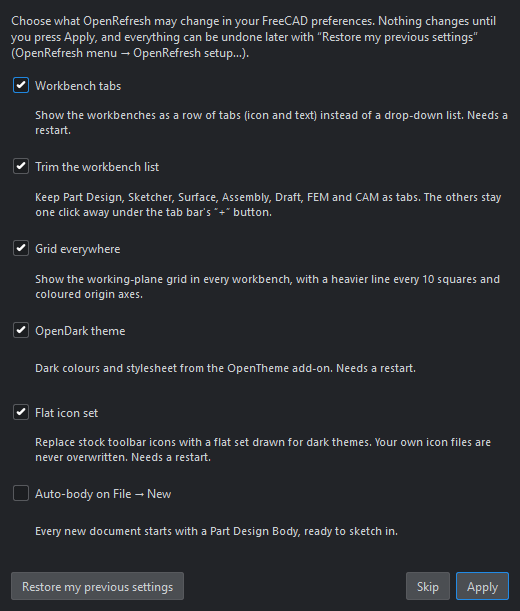
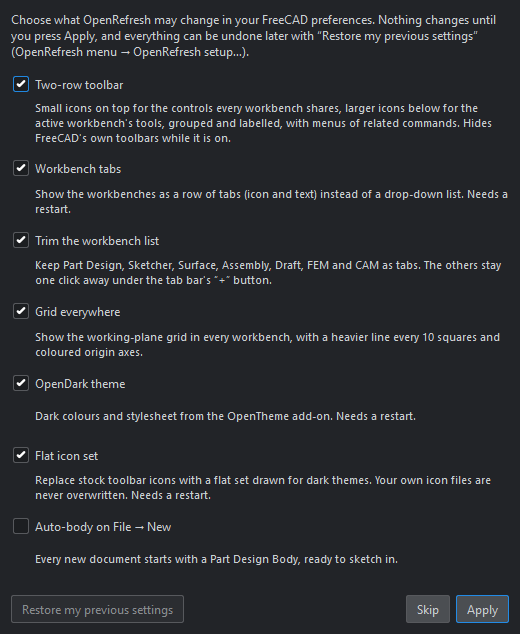
Make the two-row toolbar opt-in; recommend Nxt instead of requiring it
- The two-row toolbar is off until chosen in the setup wizard, where it
  is now the first option. Applying it takes effect at once; restoring
  turns it off and shows FreeCAD's own toolbars again at once.
- Nxt is an optional (recommended) dependency; OpenTheme stays required.
- Self-test reads the add-on's own preference and, with the toolbar off,
  checks that OpenRefresh hid nothing (FreeCAD's Sketcher hides some
  toolbars itself in edit mode, so it tests OpenRefresh's own record).
- README, CHANGELOG and the setup wizard screenshot updated to match.

diff --git a/tests/gui_selftest.py b/tests/gui_selftest.py
@@ -172,18 +172,43 @@ def toolbar_rows():
 
 
 def two_row_layout_expected():
+    """The add-on's own answer, so the default lives in one place (prefs)."""
     try:
-        return bool(App.ParamGet(
-            "User parameter:BaseApp/Preferences/Mod/OpenRefresh").GetBool("TwoRowLayout", True))
+        from freecad.openrefresh import prefs as or_prefs
+        return bool(or_prefs.two_row_layout())
     except Exception:
-        return True
+        return False
+
+
+def check_untouched(tag):
+    """With the two-row toolbar off, OpenRefresh must leave FreeCAD's toolbars
+    alone (FreeCAD's addon index forbids changing its interface unasked).
+
+    Tested against OpenRefresh's own record of what it hid, not against
+    "nothing is hidden": FreeCAD hides toolbars by itself, e.g. the Sketcher
+    force-hides Structure and Sketcher while a sketch is open
+    (Sketcher Workbench::enterEditMode)."""
+    mw = Gui.getMainWindow()
+    band = mw.findChild(QtWidgets.QToolBar, BAND_NAME)
+    band_shown = band is not None and band.isVisible()
+    try:
+        from freecad.openrefresh import band as or_band
+        hid = list(or_band.harvested())
+    except Exception as exc:
+        hid = ["<could not ask the band: {!r}>".format(exc)]
+    note("hidden_by_freecad_" + tag, sorted(
+        tb.objectName() for tb in mw.findChildren(QtWidgets.QToolBar)
+        if tb.parent() is mw and not tb.isVisible() and tb.objectName()))
+    check("toolbars_untouched_" + tag, not band_shown and not hid,
+          "band shown" if band_shown else ("OpenRefresh hid: {}".format(hid) if hid else "ok"))
 
 
 def check_rows(tag):
     rows = toolbar_rows()
     note("toolbar_rows_" + tag, rows)
     if not two_row_layout_expected():
-        check("two_rows_" + tag, True, "TwoRowLayout is off", skipped=True)
+        check("two_rows_" + tag, True, "two-row toolbar is off", skipped=True)
+        check_untouched(tag)
         return
     ok = len(rows) == 2 and BAND_NAME in rows[1]["bars"]
     check("two_rows_" + tag, ok,
@@ -332,6 +357,12 @@ def check_sketch_edit():
         allowed = set(or_layout.TOP_ROW)
     except Exception:
         allowed = set()
+    if not two_row_layout_expected():
+        for name in ("top_row_clean_in_sketch_edit", "arc_variants_in_band"):
+            check(name, True, "two-row toolbar is off", skipped=True)
+        check_untouched("sketch_edit")
+        note("shot_sketch_edit", grab("03b_sketch_edit"))
+        return
     rows = toolbar_rows()
     note("toolbar_rows_sketch_edit", rows)
     top = rows[0]["bars"] if rows else []

diff --git a/freecad/openrefresh/setup_wizard.py b/freecad/openrefresh/setup_wizard.py
@@ -111,6 +111,11 @@ GRID_VALUES = (
 #: id, checkbox label, one-line explanation, default.
 #: ``apply()`` takes a dict keyed by these ids.
 OPTIONS = (
+    ("toolbar", "Two-row toolbar",
+     "Small icons on top for the controls every workbench shares, larger "
+     "icons below for the active workbench's tools, grouped and labelled, "
+     "with menus of related commands. Hides FreeCAD's own toolbars while "
+     "it is on.", True),
     ("tabs", "Workbench tabs",
      "Show the workbenches as a row of tabs (icon and text) instead of a "
      "drop-down list. Needs a restart.", True),
@@ -374,10 +379,23 @@ def restore_backup():
         prefs.group().RemBool(prefs.SETUP_DONE)
     except Exception:
         pass
+    # The journal just switched the two-row toolbar off again (if the wizard
+    # had turned it on): give FreeCAD its own toolbars back straight away.
+    _relayout_soon()
     _save_parameters()
     log("setup: restored {} preference(s), removed {} icon(s){}".format(
         len(records) - len(failed), removed, "" if ok else " (with errors)"))
     return ok
+
+
+def _relayout_soon():
+    """Re-apply (or undo) the toolbar layout once the dialog code returns."""
+    try:
+        from PySide import QtCore
+        from . import commands
+        QtCore.QTimer.singleShot(0, commands.relayout)
+    except Exception as exc:
+        log("setup: toolbar layout not refreshed ({})".format(exc))
 
 
 def _save_parameters():
@@ -507,6 +525,15 @@ def apply(choices):
     _safety_copy()
 
     restart = " (after a restart)"
+    if choices.get("toolbar"):
+        try:
+            count = _journal_and_set([
+                (prefs.GROUP, prefs.TWO_ROW_LAYOUT, "bool", True),
+                (prefs.GROUP, prefs.BAND_CAPTIONS, "bool", True)])
+            lines.append("Two-row toolbar: {}".format("on" if count else "already on"))
+            _relayout_soon()
+        except Exception as exc:
+            lines.append("Two-row toolbar: FAILED ({})".format(exc))
     if choices.get("tabs"):
         try:
             _report(lines, "Workbench tabs", _apply_values(TABS_VALUES), restart)

diff --git a/freecad/openrefresh/prefs.py b/freecad/openrefresh/prefs.py
@@ -21,7 +21,9 @@ DEFAULTS = {
     AUTO_BODY: False,
     SHOW_GRID: True,
     BAND_CAPTIONS: True,
-    TWO_ROW_LAYOUT: True,
+    # Off until the user picks it in the setup wizard: an add-on in FreeCAD's
+    # index must not change FreeCAD's interface without being asked.
+    TWO_ROW_LAYOUT: False,
     FLAT_ICONS_INSTALLED: False,
 }
 

diff --git a/README.md b/README.md
@@ -1,7 +1,7 @@
 <h1><img src="docs/media/logo.svg" alt="OpenRefresh" width="440"></h1>
 
 > [!WARNING]
-> **Built on an experimental add-on.** OpenRefresh depends on Nxt, which is
+> **Built on an experimental add-on.** OpenRefresh is built to work with Nxt, which is
 > still in early development. An Nxt update can break parts of OpenRefresh or
 > change how they behave until OpenRefresh is updated to match. Please report
 > anything that stops working on the
@@ -39,7 +39,8 @@ every workbench. Ctrl+Alt+G brings it back in the current view.
 
 ### Two toolbar rows
 
-The top row uses small icons and holds the things you need in every
+The two-row toolbar is the first option in the setup wizard, and FreeCAD's
+toolbars stay as they are until you pick it. Once it is on, the top row uses small icons and holds the things you need in every
 workbench: file and edit commands, cut, copy and paste, the OpenRefresh
 buttons, and the workbench tabs. The bottom row uses larger icons for the
 active workbench's own tools, grouped under captions such as Create, Modify
@@ -75,9 +76,9 @@ until you pick another.
 
 ### Setup wizard
 
-The first time FreeCAD starts with OpenRefresh, a setup window offers six
-changes to your preferences, each with its own checkbox: workbench tabs, a
-shorter workbench list, the grid in every workbench, the OpenDark theme, the
+The first time FreeCAD starts with OpenRefresh, a setup window offers seven
+changes to your preferences, each with its own checkbox: the two-row toolbar,
+workbench tabs, a shorter workbench list, the grid in every workbench, the OpenDark theme, the
 flat icon set, and a body in every document made with **File → New**. Only the
 ones you tick are applied.
 
@@ -106,8 +107,9 @@ tab.
 ## Necessary software
 
 - FreeCAD 1.1.0 or a later version.
-- The OpenTheme add-on and the Nxt add-on. The Addon Manager installs them
-  with OpenRefresh.
+- The OpenTheme add-on. The Addon Manager installs it with OpenRefresh.
+- The Nxt add-on is not necessary, but OpenRefresh is made to operate with
+  it. To use the Nxt tools, install Nxt with the Addon Manager.
 
 ## Install
 
@@ -125,8 +127,9 @@ Use this procedure when OpenRefresh is in the FreeCAD addon index.
 
 Use this procedure when OpenRefresh is not in the FreeCAD addon index.
 
-> **NOTE:** You must also install OpenTheme and Nxt. Install them with the
-> Addon Manager before you do this procedure.
+> **NOTE:** You must also install OpenTheme. To use the Nxt tools, also
+> install Nxt. Install them with the Addon Manager before you do this
+> procedure.
 
 1. Start FreeCAD.
 2. Click **View → Panels → Python console**.
@@ -207,15 +210,16 @@ self-test opens and closes some new documents. It does not change your files.
 
 ## OpenTheme and Nxt
 
-OpenRefresh uses two add-ons from Obelisk79. The Addon Manager installs them
-with OpenRefresh.
+OpenRefresh uses two add-ons from Obelisk79. The Addon Manager installs
+OpenTheme with OpenRefresh. Nxt is not necessary, but OpenRefresh is made to
+operate with it.
 
 - **[OpenTheme](https://github.com/obelisk79/OpenTheme)** gives light and dark
   themes with high contrast. The setup wizard can set the OpenDark theme. The
   flat icons are for dark themes.
 - **[Nxt](https://github.com/obelisk79/FreeCAD-Nxt)** gives a model panel, a
-  history bar, a fillet tool, a chamfer tool and section views. Its tools are
-  in the **Nxt** group of the bottom row.
+  history bar, a fillet tool, a chamfer tool and section views. If you install
+  Nxt, its tools are in the **Nxt** group of the bottom row.
 
 ## Limits
 

diff --git a/CHANGELOG.md b/CHANGELOG.md
@@ -7,6 +7,15 @@ and this project adheres to [Semantic Versioning](https://semver.org/spec/v2.0.0
 
 ## [Unreleased]
 
+### Changed
+
+- The two-row toolbar is off until you choose it in the setup wizard, where
+  it is now the first option. Turning it on takes effect at once, and
+  **Restore my previous settings** turns it off and gives FreeCAD's own
+  toolbars back at once. FreeCAD's interface is untouched until you opt in.
+- Nxt is a recommended add-on instead of a required one. OpenRefresh works
+  without it; with it, Nxt's tools get their own group on the bottom row.
+
 ## [0.1.0] - 2026-11-17
 
 Initial release. Requires FreeCAD 1.1.0 or later.
